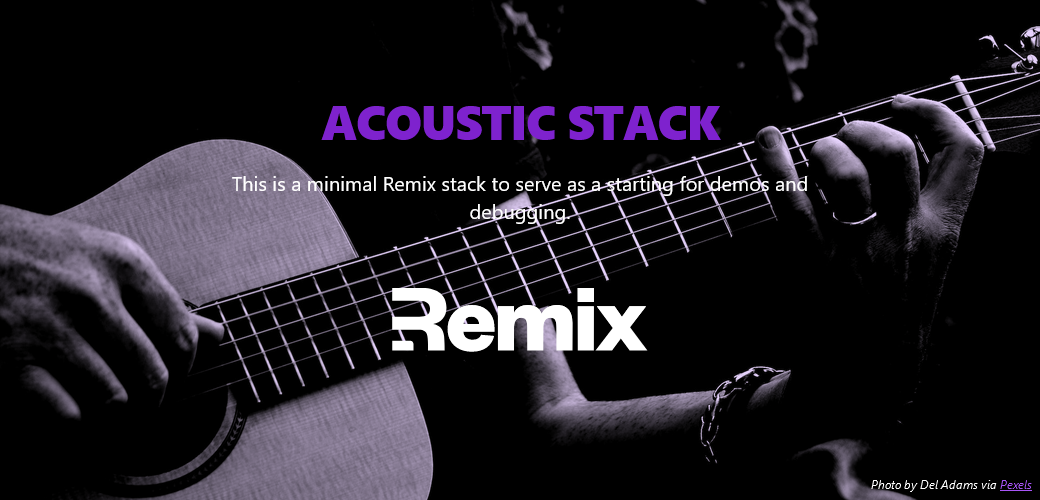
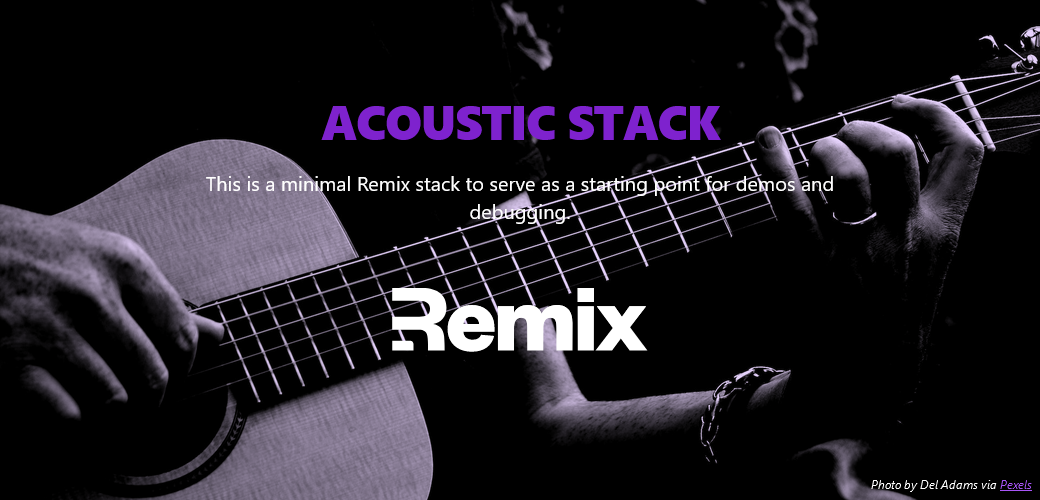
doc: add rationale for each tech; correct grammar

Changed region(s): [[0.1846, 0.36, 0.8, 0.39]]

diff --git a/app/routes/index.tsx b/app/routes/index.tsx
@@ -66,8 +66,8 @@ export default function Index() {
             Acoustic stack
           </h1>
           <p className="mx-auto mt-6 max-w-xs text-center text-xl text-white sm:max-w-2xl">
-            This is a minimal Remix stack to serve as a starting for demos and
-            debugging.
+            This is a minimal Remix stack to serve as a starting point for demos
+            and debugging.
           </p>
           <p className="mx-auto mt-16 text-center text-white">
             <a href="https://remix.run">

diff --git a/README.md b/README.md
@@ -2,12 +2,12 @@
 
 ![The Remix Acoustic Stack](/hero-screenshot.png)
 
-This is a minimal Remix stack to serve as a starting for demos and debugging.
+This is a minimal Remix stack to serve as a starting point for demos and debugging. If you need to reproduce a bug in Remix, this stack is a good starting point to do so since it has very little outside of Remix. It's also a good tool if you're trying to demo something Remix-specific.
 
 Learn more about [Remix Stacks](https://remix.run/stacks).
 
 ```
-npx create-remix@latest --template colbywhite/acoustic-stack
+yarn create remix --template colbywhite/acoustic-stack
 ```
 
 ## What's in the stack
@@ -20,7 +20,9 @@ npx create-remix@latest --template colbywhite/acoustic-stack
 
 That's it.
 
-If you need more you can fork this and make it your own. But I recommend using [Plop](https://plopjs.com) to add to this minimal base.
+Tailwind and Vitest aren't Remix-specific concepts, but if you quickly need to spin up a demo, a basic styling tool and a test runner will help. And a linter/formatter keeps the code clean for others to grok.
+
+If you need more you can fork this and make it your own.
 
 ## Development
 
